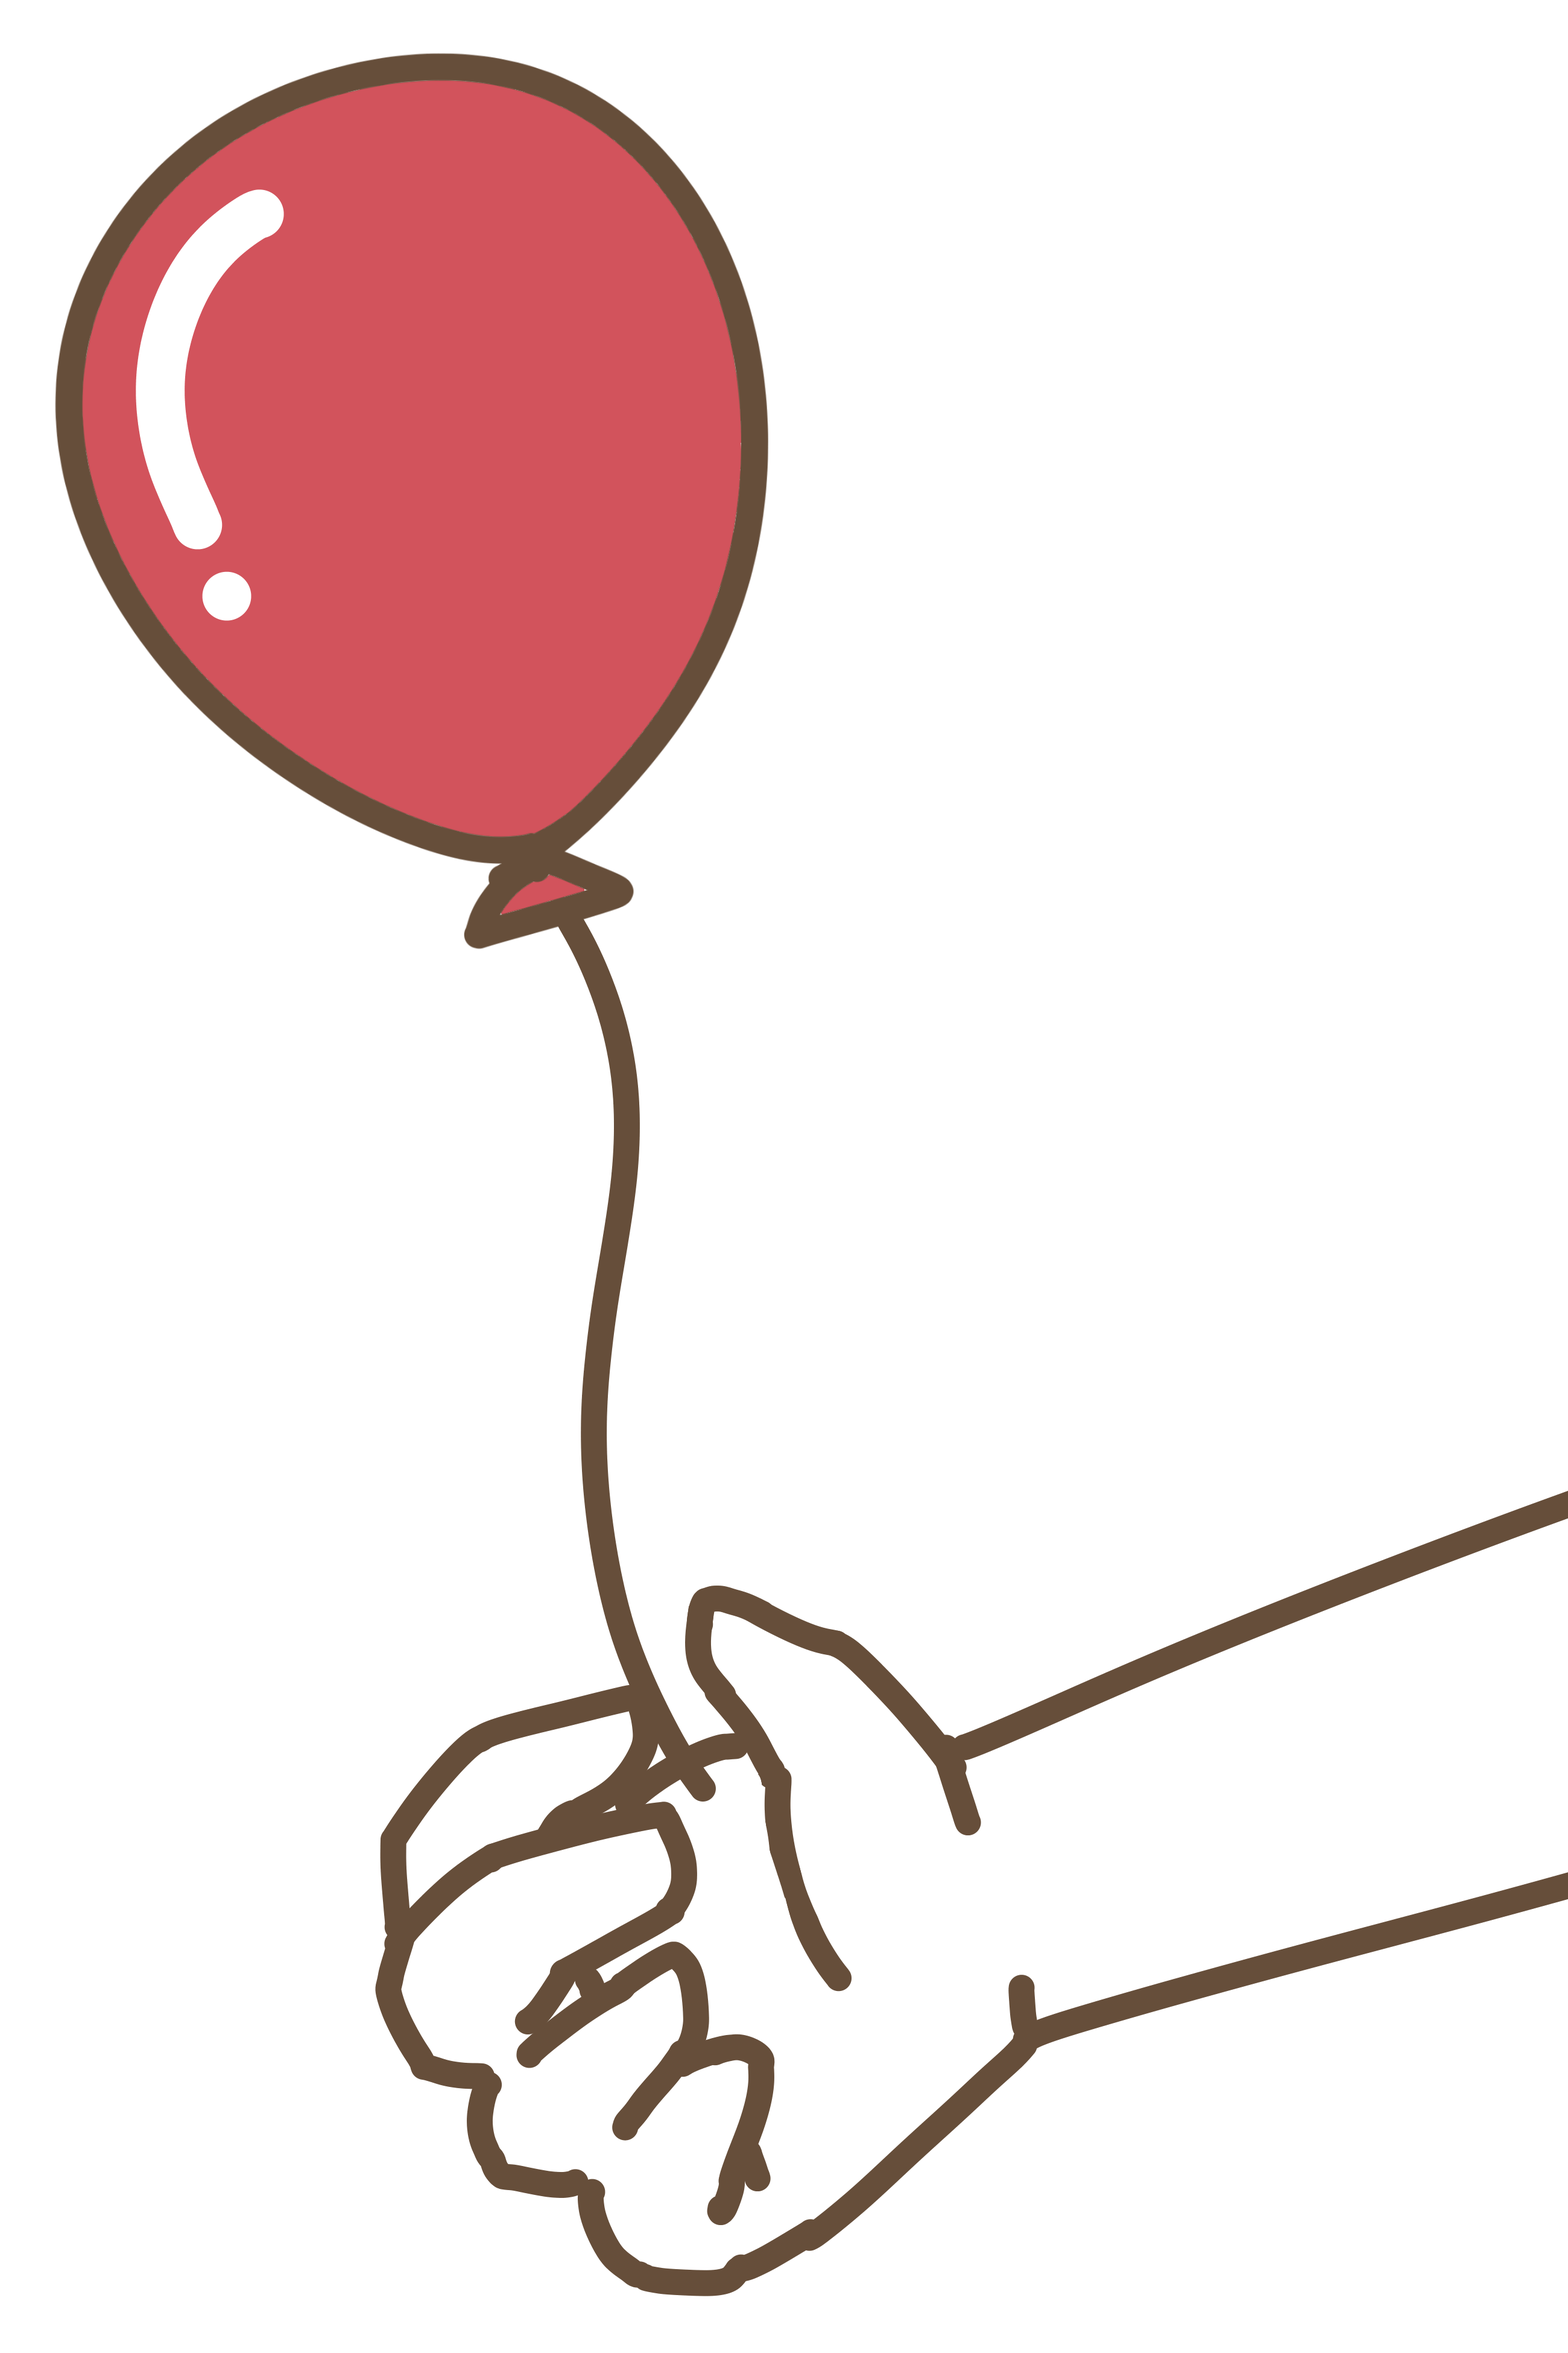
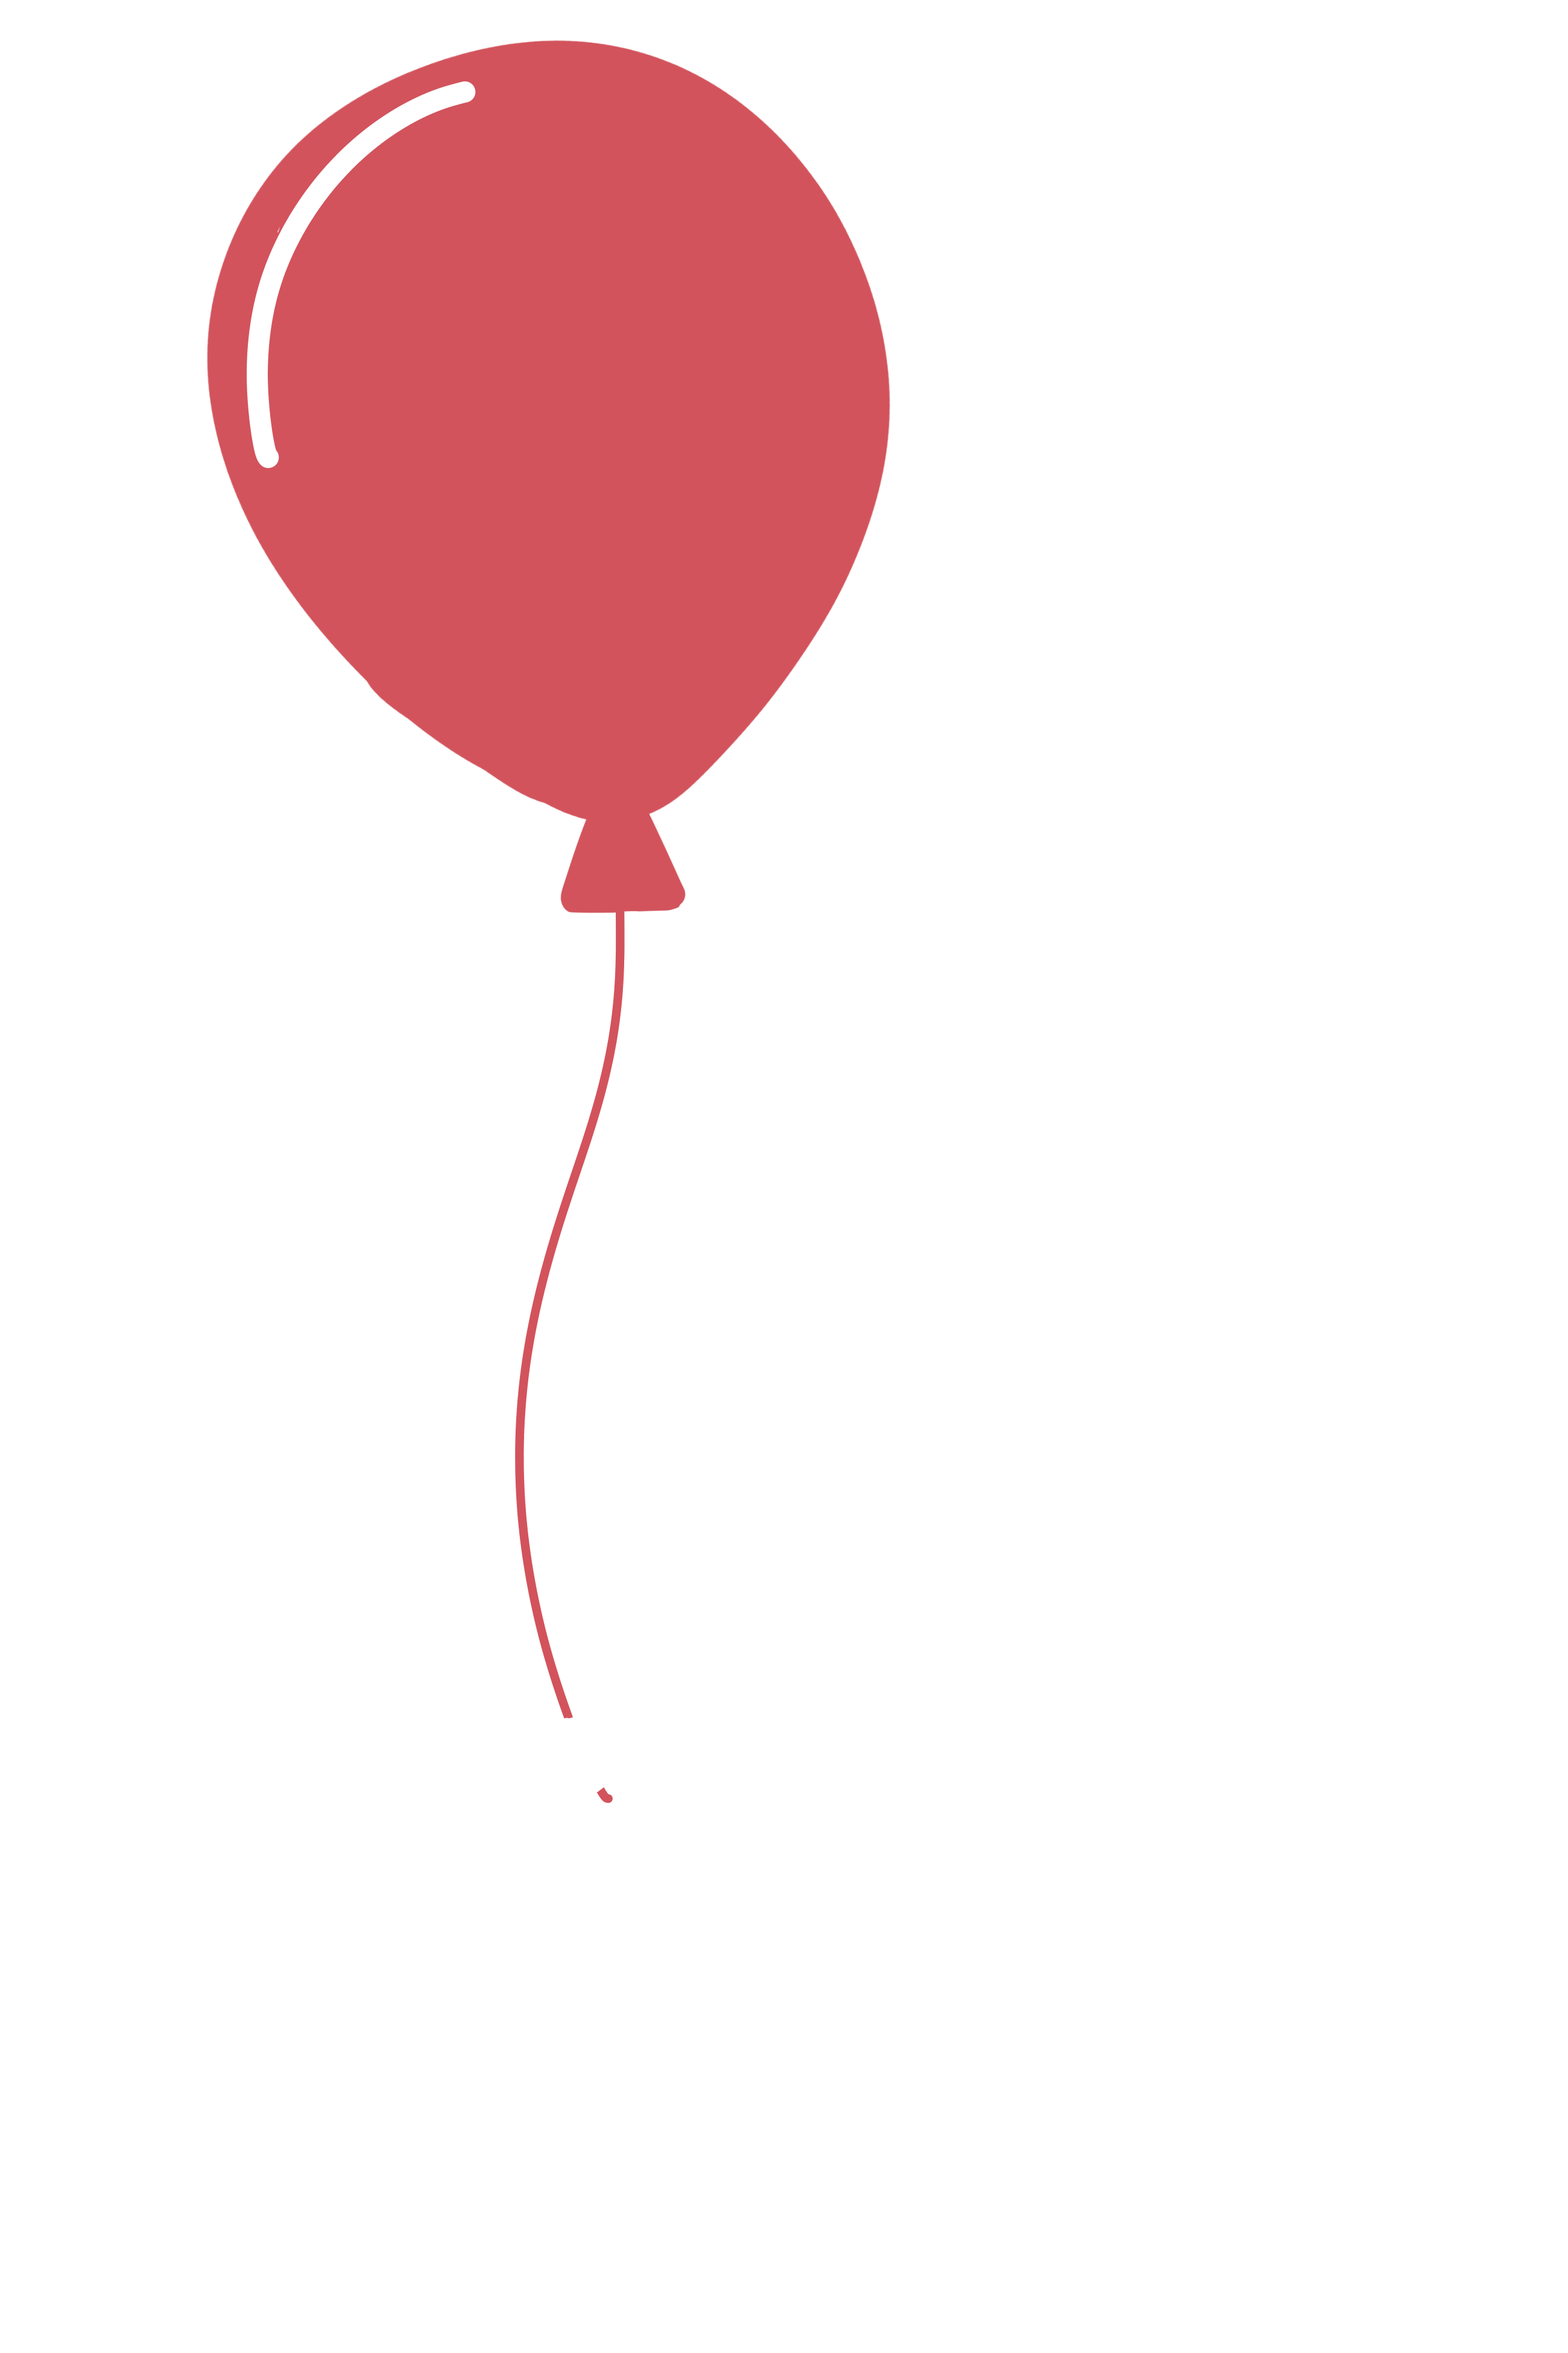
画像変えた

diff --git a/network_design/index.html b/network_design/index.html
@@ -9,9 +9,9 @@
     <link rel="stylesheet" href="./css/top.css" />
     <link href="https://fonts.googleapis.com/css?family=Kosugi+Maru&display=swap" rel="stylesheet">
 
-    <script language="javascript">
+<!--    <script language="javascript">
 
-    </script>
+    </script>-->
 
 <body class = "fadeout">
 
@@ -20,7 +20,7 @@
         <h1>風船を飛ばしてみよう</h1>
     </header>
 
-    <main>
+    <div class = "main">
       <div class="col3">
         <div></div>
         <div class = "description">
@@ -31,7 +31,7 @@
               教えてくれるサイトです
               <br>
               <br>
-              使っているAPI
+              使用しているAPI
               <br>
               位置情報：Geolocation API
               <br>
@@ -40,13 +40,16 @@
               <br>
               頑張ります！
           </div>
-          <div class = "images">
-            <img src = "./images/balloon3.png" class = "images">
+          <div class = "image">
+            <img src = "./images/balloon3.png" class = "image0">
+            <img src = "./images/balloon4.png" class = "image1">
           </div>
       </div>
+    </div>
+
     <footer>
       <div class = "footer">
-        <button id = "btn1">
+        <button id="btn1">
           風船を飛ばしてみる
         </button>
         <br>

diff --git a/network_design/css/top.css b/network_design/css/top.css
@@ -1,10 +1,18 @@
+header{
+  background: #61d4e2;
+}
 
+h1{
+  margin: 20px auto;
+  font-size:50px;
+  color: #f7efed
+}
 
 body{
   line-height: 2;
   background: #f7efed;
   text-align: center;
-  margin: 20px auto;
+  margin: 0px auto;
   font-family: 'Kosugi Maru', sans-serif;
   transition: all 1s;
 }
@@ -45,12 +53,6 @@ body.fadeout::after {
     opacity: 1;
 }*/
 
-h1{
-  margin: 20px auto;
-  font-size:50px;
-  color: #61d4e2
-}
-
 div{
   margin-right: 0px;
   letter-spacing: 0px;
@@ -58,15 +60,22 @@ div{
   color: #33546d
 }
 
-main{
-  margin-top: 20px auto;
-}
-
-.images{
+.image{
   width: 100%;
-  text-align: right;
-  margin: 0px auto;
-  margin-top: 200px auto;
+  text-align: left;
+  /*margin-top: 200px auto;*/
+  position: relative;
+}
+.image0{
+  width: 100%;
+  position: absolute;
+  /*margin-top: 200px auto;*/
+}
+.image1{
+  width: 100%;
+  display: none;
+  position: absolute;
+  /*margin-top: 200px auto;*/
 }
 
 .col3 {
@@ -75,7 +84,14 @@ main{
 
 .col3 div {
   width: calc(100% / 3);
+  height: 500px;
+  background: #f7efed
+
 }
+
+/*.description{
+  margin-top: 30px;
+}*/
 
 button{
   margin: 20px auto;
@@ -111,9 +127,9 @@ button:hover {
     0% {opacity: 0}
 }*/
 
-.footer{
+/*.footer{
   color: #33546d;
-}
+}*/
 
 .copyright{
   font-size:20px;

diff --git a/network_design/js/top.js b/network_design/js/top.js
@@ -57,10 +57,22 @@ $(window).on('load', function(){
 
 $('#btn1').click(function(){
   console.log("fo");
-  $('#bodyfadeout').fadeOut("slow");
-  setTimeout(function(){
-    window.location = "./html/map.html";  // 0.8秒後に取得したURLに遷移
-  }, 800);
+
+  $('.image0').fadeOut("slow");
+  $('.image1').fadeIn("slow");
+  pagechange();
+
+  function pagechange(){
+    $('#bodyfadeout').fadeOut("slow", function(){
+      window.location = "./html/map.html";
+    });
+  }
+  // $('#bodyfadeout').fadeOut("slow", function(){
+  //   window.location = "./html/map.html";
+  // });
+  // setTimeout(function(){
+  //   window.location = "./html/map.html";  // 0.8秒後に取得したURLに遷移
+  // }, 800);
 });
 
 /*$(function() {
